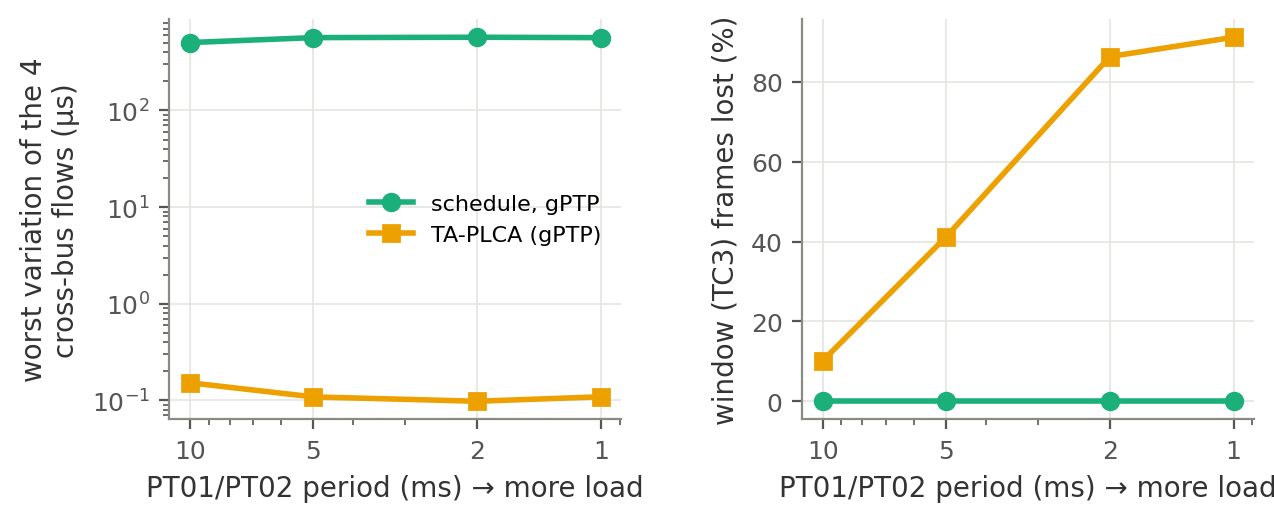
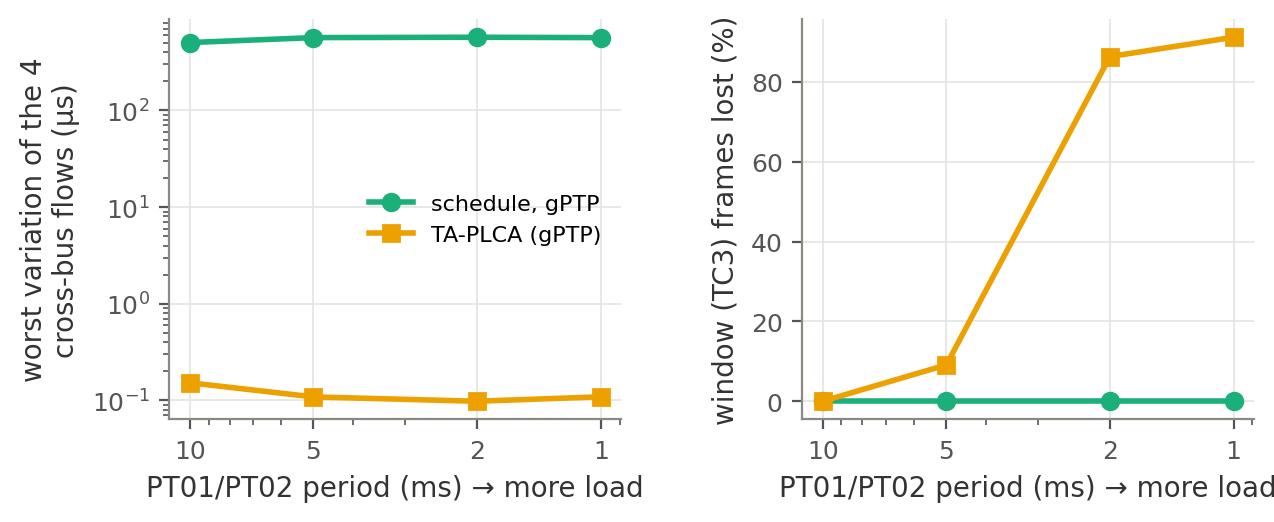
TA-PLCA final configuration (anchor only critical ms): 0 window loss at nominal; figures and text updated

diff --git a/docs/taplca_paper_section.tex b/docs/taplca_paper_section.tex
@@ -28,7 +28,10 @@ non-preemptive blocking in the backbone. The lower-priority (TC3) gate on the co
 port opens only at the start of non-critical rounds, for one frame, so no cycle
 overruns into a critical round. With $T_A = 250\,\mu$s, $\varphi_{Z1}=0$ and
 $\varphi_{Z3} = 40\,\mu$s, both request/response pairs of the powertrain scenario
-are served in fixed rounds.
+are served in fixed rounds. Anchoring is only needed where critical traffic is
+planned. In the other milliseconds the anchor list becomes a 25\,$\mu$s grid, so the
+coordinator behaves almost like standard PLCA and gives the lower classes the
+idle time back.
 
 \paragraph{Choice of $T_A$}
 $T_A$ is bounded from above by the busiest node, which gets one TO per cycle. With
@@ -68,15 +71,16 @@ middleware path. A plan with one round less per direction (PT01 585\,$\mu$s, PT0
 cycles. \todo{choose which plan the paper reports, or report both.}
 
 \paragraph{Cost (H-c)}
-The coordinators hold the BEACON 42\,\% (Z1) and 53\,\% (Z3) of the time. That idle time
-is paid by the lower classes: with nominal load the TC3 (window) traffic loses about 10\,\% of
-its frames, while the schedules lose none. Under stress, where the Z1 bus is about 86\,\% busy with 64-B
+With anchoring restricted to the critical milliseconds, the coordinators hold the BEACON
+30\,\% (Z1) and 38\,\% (Z3) of the time at nominal load, and the TC3 (window) traffic loses
+no frames ($10\times 30$\,s), as with the schedules. Anchoring every cycle instead costs
+10\,\% of the TC3 frames. Under stress, where the Z1 bus is about 86\,\% busy with 64-B
 frames, the PCP~7 flows stay deterministic (variation $\le 0.11\,\mu$s, RTT 835/903\,$\mu$s),
 but TC3 loses about 91\,\% of its frames. The load sweep (Fig.~\ref{fig:taplca-load}; PT01/PT02 every 10, 5, 2 and 1\,ms, 3 seeds $\times$ 30\,s at 5 and 2\,ms)
 shows that the PCP~7 determinism does not depend on load (worst variation 0.10--0.15\,$\mu$s at every point,
 against 503--571\,$\mu$s for the gPTP schedule), while the TC3 loss grows with the share of critical rounds:
-10\,\%, 41\,\%, 86\,\% and 91\,\%. Part of this cost comes from the guard rounds that keep TC3 frames out of
-critical rounds, which a finer TC3 gate could recover.
+0\,\%, 9\,\%, 86\,\% and 91\,\%. At 2 and 1\,ms every millisecond carries critical traffic, so there is
+no idle time left to give back.
 TA-PLCA is therefore a mechanism for segments with idle capacity, and the claim is bounded
 by load.
 

diff --git a/scripts/run/plot_taplca.py b/scripts/run/plot_taplca.py
@@ -1,5 +1,8 @@
 #!/usr/bin/env python3
-"""Paper figures for TA-PLCA (10 pt sans-serif, PDF + PNG) from results/t1s/taplca/.
+"""Paper figures (TA-PLCA = plan 2, phi 40 us, anchored rounds only in the critical ms; at 2 and 1 ms every ms
+is critical, so the plain plan-2 configs are used there)
+
+Paper figures for TA-PLCA (10 pt sans-serif, PDF + PNG) from results/t1s/taplca/.
 
 fig15_taplca_variation : delay variation (max - min) of the four cross-bus PCP 7 flows,
                          NOMINAL 10 seeds x 30 s, random / ideal-clock / gPTP schedule / TA-PLCA plan 2
@@ -29,7 +32,7 @@ plt.rcParams.update({"font.family": "sans-serif", "font.sans-serif": ["DejaVu Sa
 CFGS = [("TA_NOMINAL_RANDOM_30s", "unscheduled", "#2a78d6", ""),
         ("TA_NOMINAL_IDEAL_30s", "schedule, ideal clocks", "#eb6834", "//"),
         ("TA_NOMINAL_GPTP_30s", "schedule, gPTP", "#1baf7a", ".."),
-        ("TA_NOMINAL_TAPLCA250_P2_PHI40_30s", "TA-PLCA (gPTP)", "#eda100", "xx")]
+        ("TA_NOMINAL_TAPLCA250_P2_PHI40_FINE_30s", "TA-PLCA (gPTP)", "#eda100", "xx")]
 FLOWS = [("PT01", "PT01 RTT"), ("PT02", "PT02 RTT"), ("PT03", "PT03 one-way"), ("PT04", "PT04 one-way")]
 
 
@@ -94,8 +97,8 @@ def main():
     plt.close(fig)
 
     # fig17: load sweep
-    loads = [(10, "TA_NOMINAL_GPTP_30s", "TA_NOMINAL_TAPLCA250_P2_PHI40_30s"),
-             (5, "TA_LOAD5_GPTP_30s", "TA_LOAD5_TAPLCA250_P2_PHI40_30s"),
+    loads = [(10, "TA_NOMINAL_GPTP_30s", "TA_NOMINAL_TAPLCA250_P2_PHI40_FINE_30s"),
+             (5, "TA_LOAD5_GPTP_30s", "TA_LOAD5_TAPLCA250_P2_PHI40_FINE_30s"),
              (2, "TA_LOAD2_GPTP_30s", "TA_LOAD2_TAPLCA250_P2_PHI40_30s"),
              (1, "TA_STRESS_GPTP_30s", "TA_STRESS_TAPLCA250_P2_PHI40_30s")]
     if not all((RES / c).exists() and list((RES / c).glob("*.sca")) for _, a, b in loads for c in (a, b)):

diff --git a/docs/taplca.md b/docs/taplca.md
@@ -183,6 +183,21 @@ The alternative plan 1b (φ = 185 µs, TCU round 0, 3 seeds) shows rare 1–2-ro
 
 The PCP 7 determinism does not depend on load. The TC3 loss grows with the share of critical rounds, partly because of the guard rounds. Figure: `fig17_taplca_load`.
 
+### 6.7 Anchor only where needed (final configuration)
+
+Plan 2 anchored every cycle, so the BEACON was also held in milliseconds that carry no cross-bus traffic.
+The final configuration keeps the 250 µs rounds only in the critical ms (and in the guard round before each of them). Everywhere else the anchor list is a 25 µs grid, which behaves like standard PLCA with catch-up.
+Implementation: one `anchorOffsets` list per coordinator with a 10 ms period (`fine_plca_lines`, configs `*_P2_PHI40_FINE_30s`).
+
+| load | seeds × 30 s | PT01 / PT02 RTT (variation) | PT03 / PT04 variation | window lost | BEACON hold Z1 / Z3 |
+|---|---|---|---|---|---|
+| nominal (10 ms) | 10 | 835.01 (0.08) / 903.01 (0.15) | 0.11 / 0.11 µs | **0** (was 10 %) | 30 % / 38 % |
+| 5 ms | 3 | 835.02 (0.04) / 903.02 (0.11) | 0.09 / 0.09 µs | **9 %** (was 41 %) | 38 % / 48 % |
+| 2 ms and 1 ms | – | every ms is critical, so this is identical to plan 2 (86 % / 91 %) | | | |
+
+With this, **(c) holds at nominal load with zero loss for the lower class**. The cost appears only when most milliseconds carry critical cross-bus traffic.
+Figures fig15–fig17 use this configuration.
+
 ## 7. Next steps
 
 1. Reduce the plan 2 RTTs (one round each is lost against the analytic estimate) and give the window more gate time without touching the critical rounds. A small search over (φ, round per flow) with a bus-timing model would do this, and it is the D2 per-flow offsets folded into TA-PLCA.
